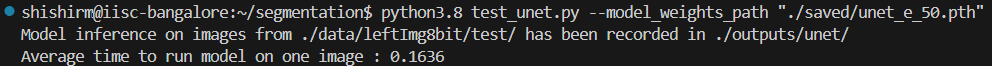
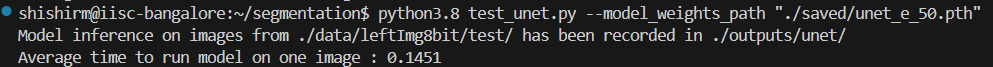
final

diff --git a/test_unet.py b/test_unet.py
@@ -15,34 +15,35 @@ torch.cuda.empty_cache()
 def inference(model, data_path, save_path, transform):
     time_taken = []
     model.eval()
-    for city in os.listdir(data_path):
-        img_dir = os.path.join(data_path, city)
-        tgt_dir = os.path.join(save_path, city)
-        os.makedirs(tgt_dir, exist_ok=True)
-        for file_name in os.listdir(img_dir):
-            if file_name.endswith('_leftImg8bit.png'):
-                img_path = os.path.join(img_dir, file_name)
-                tgt_name = file_name.replace('_leftImg8bit.png', '_labelId_preds.png')
-                tgt_path = os.path.join(tgt_dir, tgt_name)
+    with torch.no_grad():
+        for city in os.listdir(data_path):
+            img_dir = os.path.join(data_path, city)
+            tgt_dir = os.path.join(save_path, city)
+            os.makedirs(tgt_dir, exist_ok=True)
+            for file_name in os.listdir(img_dir):
+                if file_name.endswith('_leftImg8bit.png'):
+                    img_path = os.path.join(img_dir, file_name)
+                    tgt_name = file_name.replace('_leftImg8bit.png', '_labelId_preds.png')
+                    tgt_path = os.path.join(tgt_dir, tgt_name)
 
-                start = time()
+                    start = time()
 
-                image = transform(Image.open(img_path).convert('RGB')).unsqueeze(0).to(DEVICE)
-                pred_logits = model(image)
-                pred_mask = torch.argmax(pred_logits, dim=1).squeeze().cpu().numpy().astype(np.uint8)
-                pred_mask_color = convert_trainid_mask(
-                    pred_mask,
-                    to="labelid",
-                    name_to_trainId_path='./cityscapes/name_to_trainId.json',
-                    name_to_color_path='./cityscapes/name_to_color.json',
-                    name_to_labelId_path='./cityscapes/name_to_labelId.json',
-                ).astype(np.uint8)
-            
-                end = time()
+                    image = transform(Image.open(img_path).convert('RGB')).unsqueeze(0).to(DEVICE)
+                    pred_logits = model(image)
+                    pred_mask = torch.argmax(pred_logits, dim=1).squeeze().cpu().numpy().astype(np.uint8)
+                    pred_mask_color = convert_trainid_mask(
+                        pred_mask,
+                        to="labelid",
+                        name_to_trainId_path='./cityscapes/name_to_trainId.json',
+                        name_to_color_path='./cityscapes/name_to_color.json',
+                        name_to_labelId_path='./cityscapes/name_to_labelId.json',
+                    ).astype(np.uint8)
+                
+                    end = time()
 
-                img = Image.fromarray(pred_mask_color, mode='L')
-                img.save(tgt_path)
-                time_taken.append(end - start)
+                    img = Image.fromarray(pred_mask_color, mode='L')
+                    img.save(tgt_path)
+                    time_taken.append(end - start)
 
     print(f"Model inference on images from {data_path} has been recorded in {save_path}")
     print(f"Average time to run model on one image : {(sum(time_taken) / len(time_taken)):.4f}")
@@ -59,7 +60,7 @@ def main(cfg):
     inference(model, data_path='./data/leftImg8bit/test/', save_path=f"./outputs/unet/", transform=transform_val_test)
 
 if __name__=="__main__":
-    parser = argparse.ArgumentParser(description="UNet Training")
+    parser = argparse.ArgumentParser(description="UNet Evaluation")
     parser.add_argument("--model_weights_path", type=str, required=True, help="Path to the model weights")
     args = parser.parse_args()
     model_weights_path = args.model_weights_path

diff --git a/README.md b/README.md
@@ -1,6 +1,6 @@
 # UNet
-PyTroch Implementation of UNet.
-Comment: Due to memory constraints I have used different number of input/output channels as compared to the original paper.
+PyTorch implementation of UNet.
+Comment: Due to memory constraints, UNet is defined using different number of input/output channels as compared to the original paper.
 
 ## Generating Masks from Annotations :
 - Download "gtFine_trainvaltest.zip" and "leftImg8bit_trainvaltest.zip" from the [official cityscapes website](https://www.cityscapes-dataset.com/downloads/) and extract them in [data/](./data/).
@@ -20,22 +20,22 @@ Project/
 │   ├── leftImg8bit
 │   ├── gtFine
 │   └── ... (other files from dataset)
-├── deeplabv3/
-│   └── ... (python scripts for deeplabv3 model and utils)
+├── unet/
+│   └── ... (python scripts for UNet model and utils)
 ├── outputs/
 │   └── ... (output directory)
 ├── saved/
 │   └── ... (save directory during training)
 ├── save_predictions.ipynb
-├── test_dlv3.py
-├── train_dlv3.py
+├── test_unet.py
+├── train_unet.py
 ├── visualize_training.ipynb
 └── ... (other files from project)
 ```
 
 
 ## Training
-- Run the following command to train DeepLabV3 model:
+- Run the following command to train UNet model:
 ```
 python train_unet.py
 ```
@@ -60,7 +60,7 @@ Comment: The above plots are generated using [visualize_training.ipynb](visualiz
 
 
 ## Performance
-- Run the following command to evaluate DeepLabV3 model on test sets:
+- Run the following command to evaluate UNet model on test set:
 ```
 python test_unet.py --model_weights_path "./saved/{file_name}.pth"
 ```
@@ -91,5 +91,5 @@ Comment: The code saves all the predictions in the directory [outputs/unet/](./o
 ![Average Inference time of UNet Model](./outputs/inf.png)
 
 Comment:
-- UNet Model requires 15.7 GB VRAM for inference on complete image of size 1024 x 2048.
-- UNet Model takes about 0.16 seconds for inference on complete image of size 1024 x 2048.
+- UNet Model (pid=3994260) requires 5.1 GB VRAM for inference on complete image of size 1024 x 2048.
+- UNet Model takes about 0.14 seconds for inference on complete image of size 1024 x 2048.
